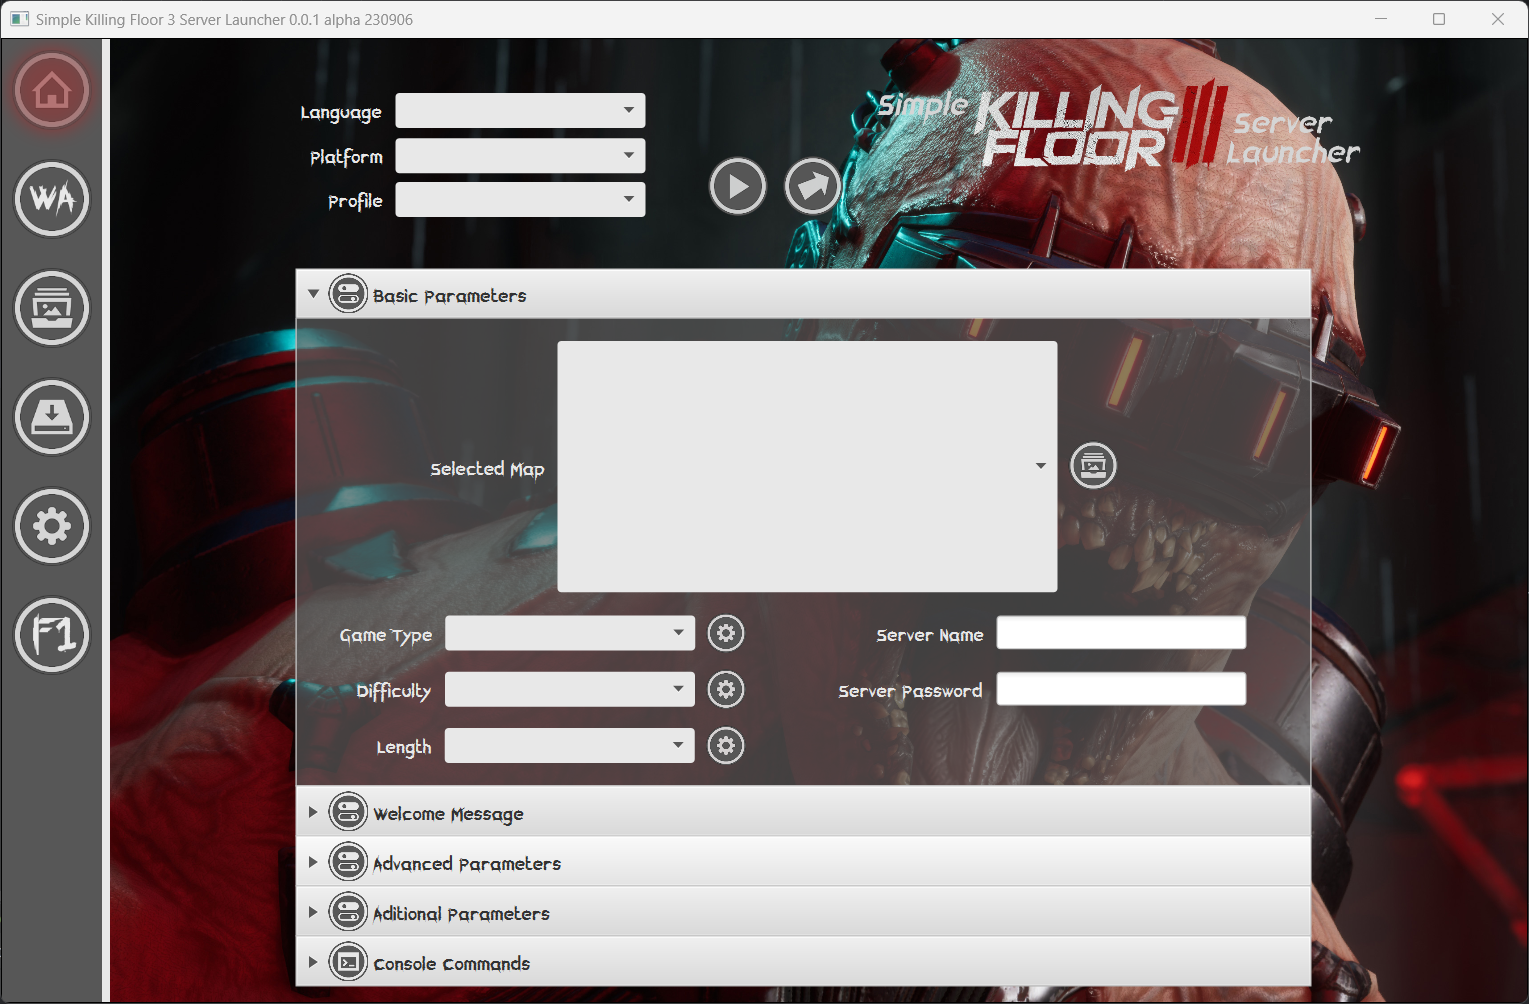
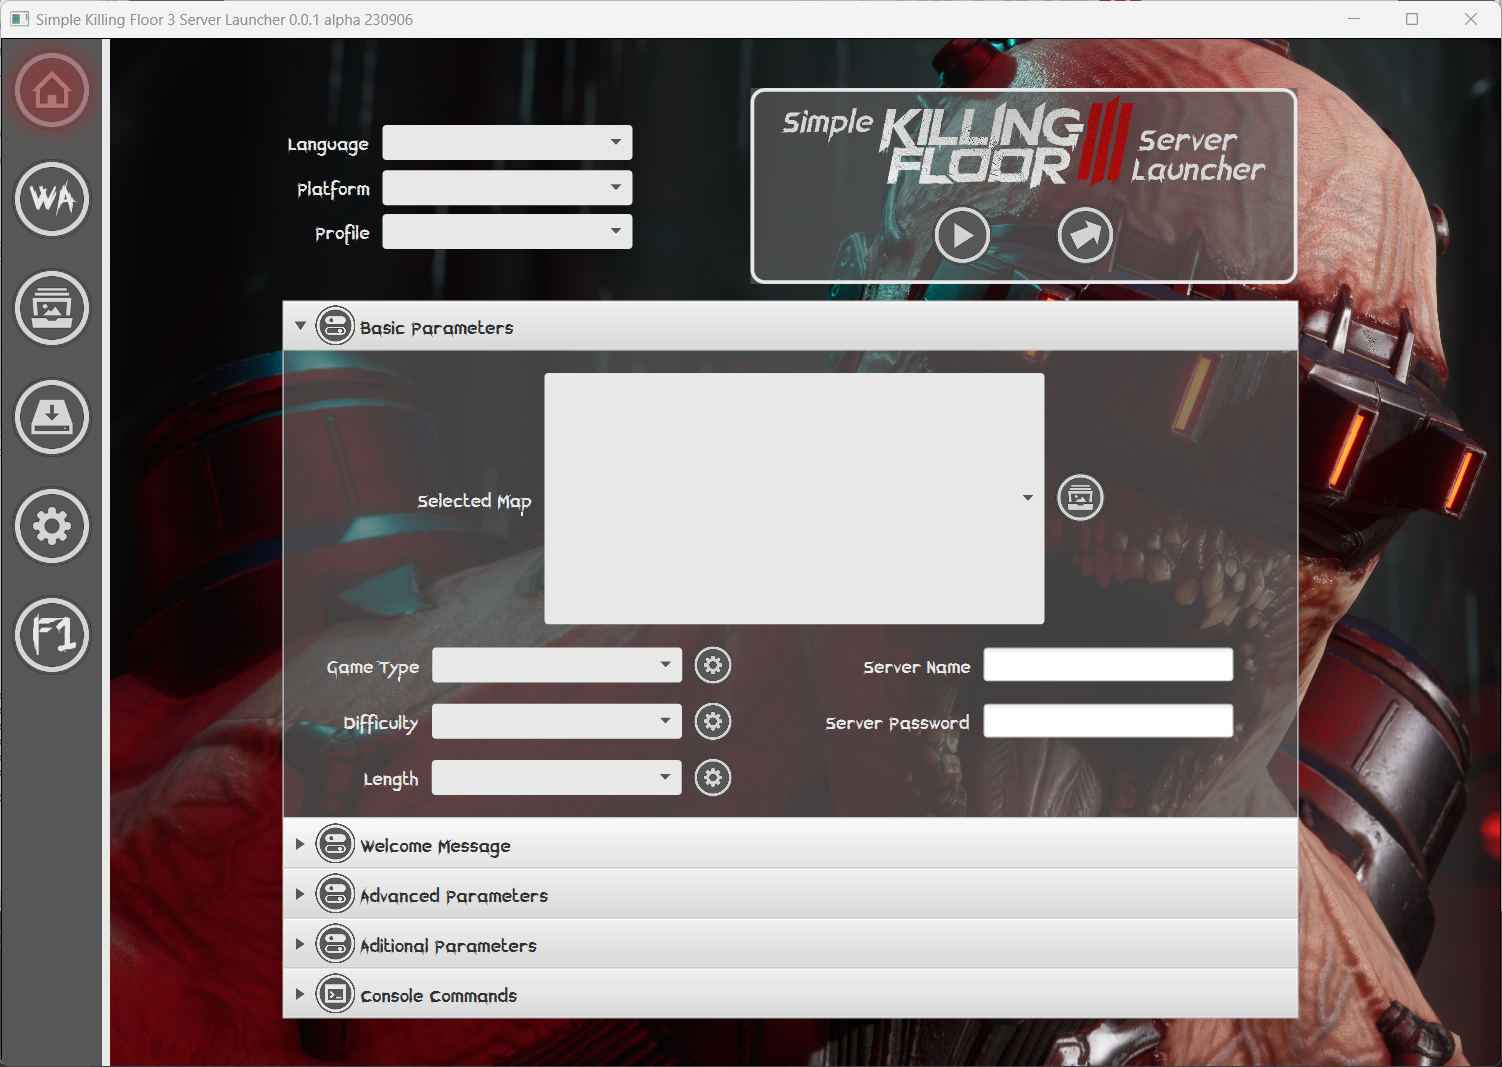
Design change in home menu

diff --git a/src/main/resources/css/custom.css b/src/main/resources/css/custom.css
@@ -20,7 +20,7 @@
 }
 
 .titled-pane > .content {
-    -fx-background-color: rgba(91, 91, 91, 0.7);;
+    -fx-background-color: rgba(91, 91, 91, 0.7);
 }
 
 
@@ -53,4 +53,11 @@
     -fx-font-style: italic;
     -fx-font-weight: bold;
     -fx-opacity:0.9;
+}
+
+.gridPane {
+    -fx-background-color: rgba(91, 91, 91, 0.7);
+    -fx-border-color: #e8e8e8;
+    -fx-border-width:3px;
+    -fx-border-radius: 10px;
 }

diff --git a/src/main/java/stories/home/HomeController.java b/src/main/java/stories/home/HomeController.java
@@ -7,6 +7,7 @@ import javafx.fxml.Initializable;
 import javafx.scene.control.*;
 import javafx.scene.input.MouseButton;
 import javafx.scene.input.MouseEvent;
+import javafx.scene.layout.GridPane;
 import javafx.scene.layout.VBox;
 import org.apache.logging.log4j.LogManager;
 import org.apache.logging.log4j.Logger;
@@ -34,6 +35,7 @@ public class HomeController implements Initializable {
     @FXML private Button setupGameTypes;
     @FXML private Button setupDifficulties;
     @FXML private Button setupLengths;
+    @FXML private GridPane gridPane;
 
     public HomeController() {
         super();
@@ -44,6 +46,7 @@ public class HomeController implements Initializable {
     public void initialize(URL url, ResourceBundle resourceBundle) {
         try {
             Utils.setNodeBackground(homeVbox);
+            gridPane.getStyleClass().add("gridPane");
             accordion.setExpandedPane(basic);
 
             Utils.loadTooltip(selectedMapLabel, "Selected map text");
